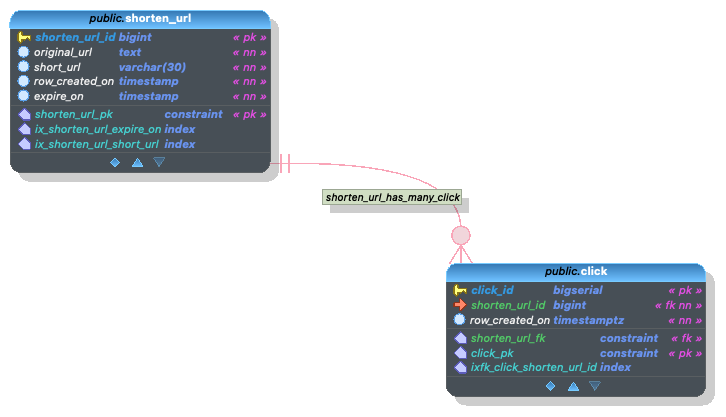
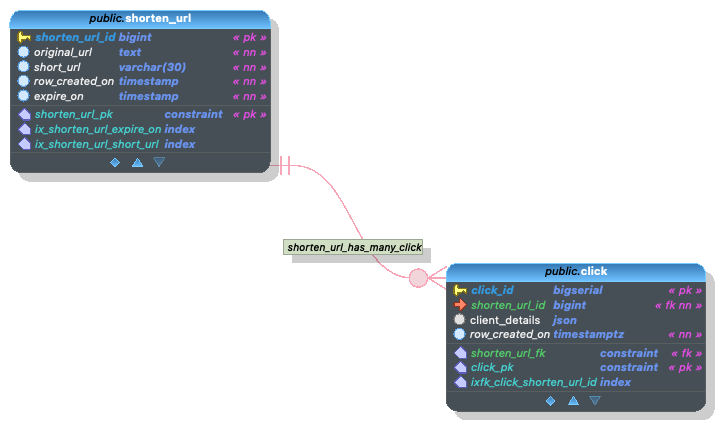
added client details

Changed region(s): [[0.3636, 0.4053, 1.0, 0.9664], [0.0, 0.0, 0.5152, 0.4365]]

diff --git a/url_shorten.html b/url_shorten.html
@@ -277,6 +277,16 @@ max-width: 500px;
  <td><p class="max-td-wth"><em></em></p></td>
  </tr>
  <tr>
+ <td>client_details</td>
+ <td class="data-type">json</td>
+ <td class="bool-field"></td>
+ <td class="bool-field"></td>
+ <td class="bool-field"></td>
+ <td class="bool-field"></td>
+ <td class="value"></td>
+ <td><p class="max-td-wth"><em></em></p></td>
+ </tr>
+ <tr>
  <td>row_created_on</td>
  <td class="data-type">timestamptz</td>
  <td class="bool-field"></td>
@@ -508,7 +518,7 @@ max-width: 500px;
  <a href="#index" class="nav-link">&uarr; Index</a>
 </div>
 <footer>
-Generated at <em>2023-04-17T15:42:03 </em> by <strong>pgModeler 1.0.1</strong><br/>
+Generated at <em>2023-04-17T17:04:07 </em> by <strong>pgModeler 1.0.1</strong><br/>
 <a href="https://pgmodeler.io">PostgreSQL Database Modeler - https://pgmodeler.io</a><br/>
 Copyright © 2006 - 2023 Raphael Araújo e Silva
 </footer> </body>
